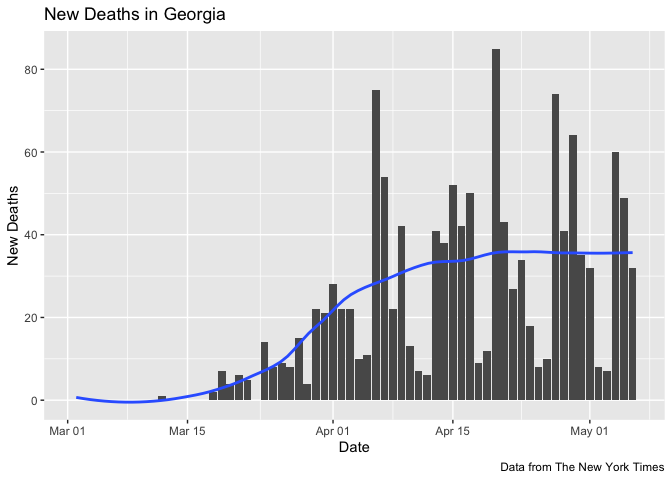
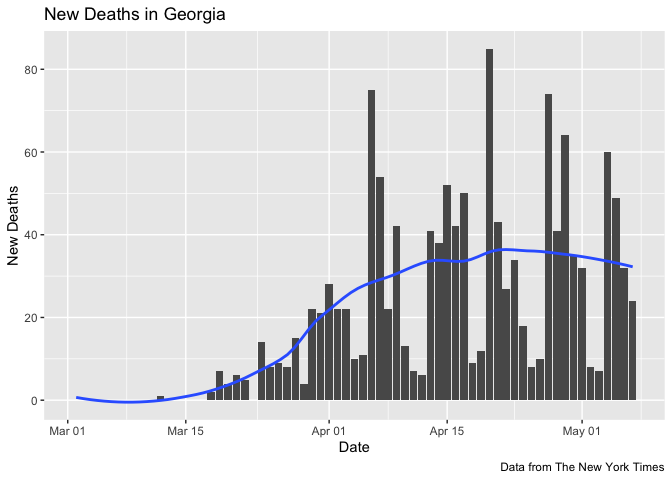
Updated data

diff --git a/Metro_Atlanta_COVID.md b/Metro_Atlanta_COVID.md
@@ -16,7 +16,7 @@ It’s hard to know how to interpret these numbers since there are major
 known unknowns. Neither confirmed cases nor deaths can be said to be
 reliable counts of the true numbers.
 
-Data current as of May 07,
+Data current as of May 08,
 2020.
 
 # Metro Atlanta
